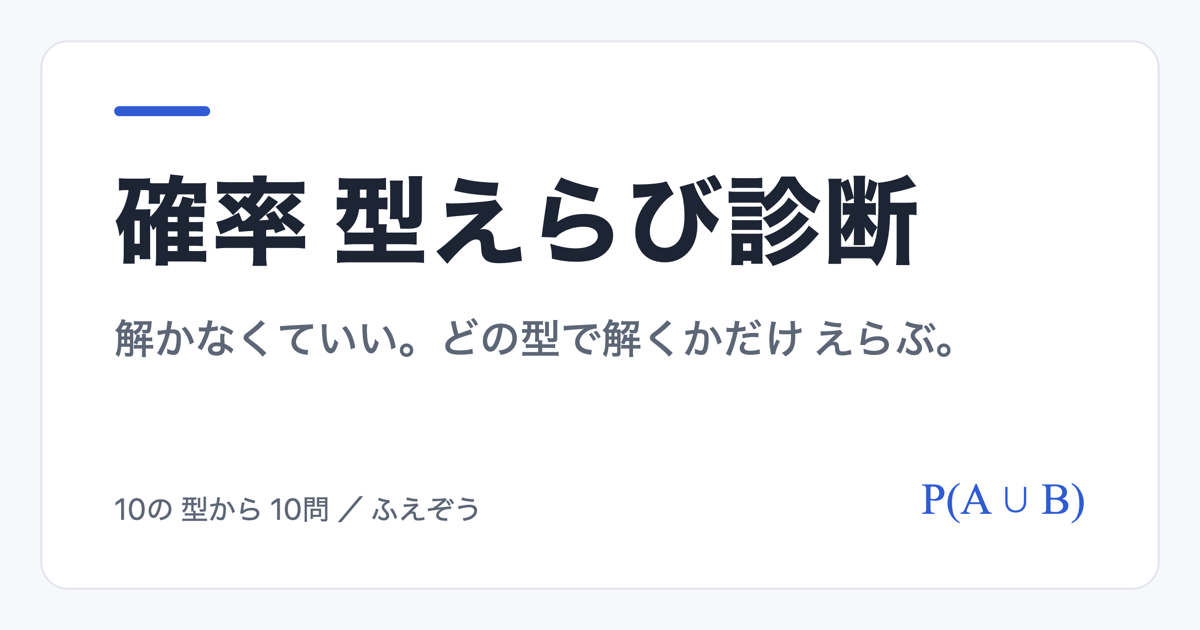
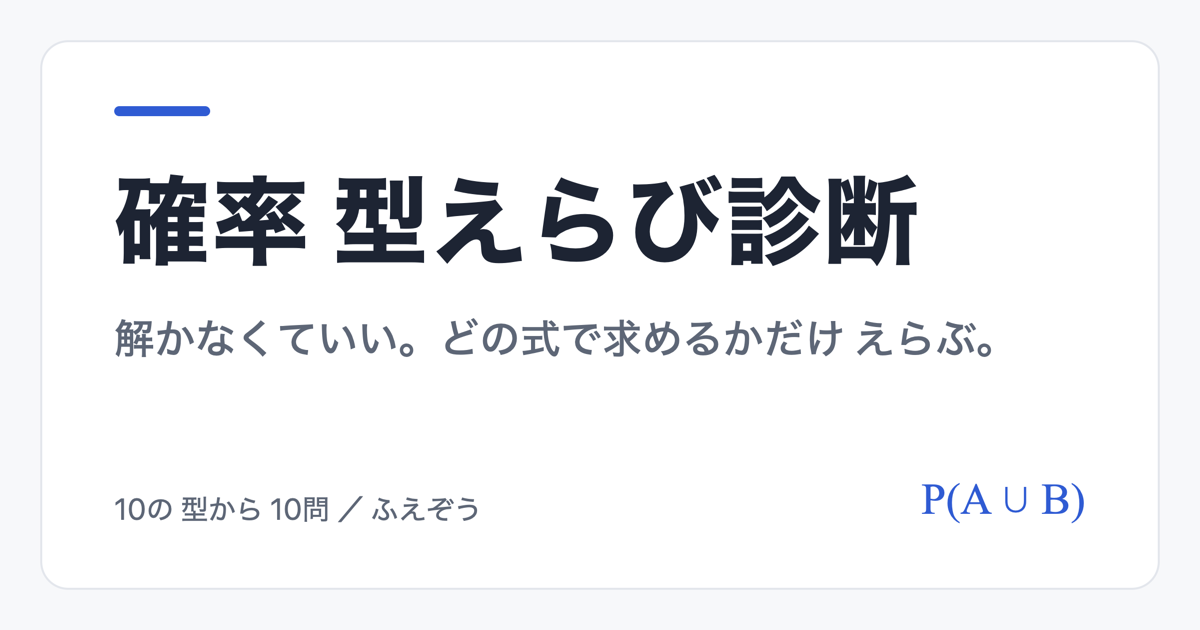
選択肢を型の名前から式に（型は答えたあとに出す）・期待値は平均とのちがいを説明し、データと期待値をくらべる問題を追加

Changed region(s): [[0.4933, 0.5127, 0.8325, 0.573], [0.4317, 0.5127, 0.4625, 0.573]]

diff --git a/index.html b/index.html
@@ -6,10 +6,10 @@
 <meta name="viewport" content="width=device-width, initial-scale=1">
 <meta http-equiv="Content-Security-Policy" content="default-src 'none'; style-src 'unsafe-inline'; script-src 'unsafe-inline'; img-src data:">
 <title>確率 型えらび診断</title>
-<meta name="description" content="解かなくていい。どの型で解くかだけ えらぶ。確率の「どの解き方を使うか」を10問で診断します。">
+<meta name="description" content="解かなくていい。どの式で求めるかだけ えらぶ。確率の「どの解き方を使うか」を10問で診断します。">
 <!-- X などに リンクを 貼った ときの カード -->
 <meta property="og:title" content="確率 型えらび診断">
-<meta property="og:description" content="解かなくていい。どの型で解くかだけ えらぶ。10問で診断します。">
+<meta property="og:description" content="解かなくていい。どの式で求めるかだけ えらぶ。10問で診断します。">
 <meta property="og:image" content="https://fuezou.github.io/kakuritsu-shindan/ogp.png">
 <meta property="og:url" content="https://fuezou.github.io/kakuritsu-shindan/">
 <meta property="og:type" content="website">
@@ -39,7 +39,13 @@ h1 { font-size: 26px; line-height: 1.35; margin: 28px 0 6px; letter-spacing: 0.0
 .q { font-weight: bold; margin: 4px 0 10px; }
 .opts { display: grid; gap: 10px; }
 .opt { font: inherit; font-size: 16px; text-align: left; padding: 12px 14px; border-radius: 10px; border: 1.5px solid var(--line); background: var(--card); color: var(--ink); cursor: pointer; }
-.opt small { color: var(--sub); }
+.opt { font-family: 'Times New Roman', 'Hiragino Mincho ProN', serif; font-size: 19px; }
+sup { font-size: 0.68em; line-height: 0; }
+.frac { display: inline-flex; flex-direction: column; vertical-align: middle; text-align: center; margin: 0 2px; }
+.frac > span:first-child { border-bottom: 1px solid currentColor; padding: 0 3px; }
+.frac > span:last-child { padding: 0 3px; }
+.frac .frac { font-size: 0.85em; }
+.big { font-size: 2em; line-height: 1; vertical-align: middle; font-weight: 200; }
 .opt:disabled { cursor: default; }
 .opt.ok { border-color: var(--ok); background: var(--ok-bg); }
 .opt.ng { border-color: var(--ng); background: var(--ng-bg); }
@@ -66,14 +72,15 @@ h1 { font-size: 26px; line-height: 1.35; margin: 28px 0 6px; letter-spacing: 0.0
 <main>
   <section id="titleScreen">
     <h1>確率<br>型えらび診断</h1>
-    <p class="lead">解かなくていい。<br>どの 型で 解くか だけ えらぶ。</p>
+    <p class="lead">解かなくていい。<br>どの 式で 求めるか だけ えらぶ。</p>
     <div class="card how">
       <b>あそびかた</b>
       <ol>
         <li>確率の 問題が 1つ 出ます。</li>
-        <li>計算は しないで、「どの 型で 解くか」を 4つから えらびます。</li>
+        <li>計算は しないで、正しい 式を 4つから えらびます。</li>
         <li>10問 終わると、まよいやすい 型が わかります。</li>
       </ol>
+      <p style="margin:8px 0 0">出る 型（ドリルと おなじ 10の 型）</p>
       <ul class="types" id="typeList"></ul>
     </div>
     <button class="btn start" id="startBtn">はじめる（10問）</button>
@@ -84,7 +91,7 @@ h1 { font-size: 26px; line-height: 1.35; margin: 28px 0 6px; letter-spacing: 0.0
     <div class="bar"><span>確率 型えらび診断</span><span id="count"></span></div>
     <div class="prog"><i id="progBar"></i></div>
     <div class="card prob" id="prob"></div>
-    <p class="q">どの 型で 解く？</p>
+    <p class="q">どの 式で 求める？</p>
     <div class="opts" id="opts"></div>
     <div class="card why" id="why" hidden></div>
     <button class="btn" id="nextBtn" hidden>次へ</button>
@@ -96,7 +103,7 @@ h1 { font-size: 26px; line-height: 1.35; margin: 28px 0 6px; letter-spacing: 0.0
       <div class="big" id="resScore"></div>
       <div id="resMsg"></div>
     </div>
-    <div class="card" id="missCard"><b>まよった ところ</b><ul class="misses" id="missList"></ul></div>
+    <div class="card" id="missCard"><b>まちがえた 問題の 型</b><ul class="misses" id="missList"></ul></div>
     <div class="card cta" id="cta"></div>
     <a class="btn x" id="shareBtn" target="_blank" rel="noopener">結果を X に 投稿する</a>
     <button class="btn sub" id="againBtn">もう一度（ちがう 問題）</button>
@@ -106,7 +113,8 @@ h1 { font-size: 26px; line-height: 1.35; margin: 28px 0 6px; letter-spacing: 0.0
 </main>
 
 <script id="core">
-// しくみ：型・問題・選択肢・判定・まとめ。型の 名前は 確率ドリル（75問）と おなじ 10の 型
+// しくみ：型・問題・式の 選択肢・まとめ。型の 名前は 確率ドリル（75問）と おなじ 10の 型
+// 選択肢は その 問題の 数を 入れた 式（\frac{a}{b}・^{k}・₉C₂ の 書き方）。先頭が 正しい 式、のこり 3つは 計算すると ちがう 値に なる 式
 const KakuritsuCore = (() => {
   const TYPES = {
     1: { name: '区別して数える', term: '' },
@@ -121,73 +129,84 @@ const KakuritsuCore = (() => {
     10: { name: '平均と同じ式', term: '期待値' },   // 「平均」だけで 金額を そのまま 平均する かんちがいを ふせぐ
   };
   const label = t => '型' + t + ' ' + TYPES[t].name;
-  // はずれ：まちがえやすい 型。遠回りでも 通る 型は 入れない（数えれば 解ける 問題に「区別して数える」など）
-  const CONFUSE = { 1: [2, 6, 5], 2: [3, 4, 5], 3: [2, 5, 6], 4: [3, 5, 2], 5: [8, 3, 7], 6: [5, 4, 8], 7: [8, 9, 2], 8: [5, 6, 4], 9: [7, 8, 5], 10: [3, 1, 6] };
-  // 遠回り だけど 解ける：× の まま、ひとこと 添える
-  const NOTE = {
-    '4>3': '場合に 分けて 足しても 解けるけど、場合が 多い。「少なくとも」は 反対から が 早い',
-    '4>2': '重なりを 引いても 解けるけど、反対（〜で ない）から 数える ほうが 早い',
-    '3>2': '重なりが ない（同時に 起きない）ので 引く ものが ない。そのまま 足す',
-    '9>7': '条件付き確率 では あるけど、分かった順と 時間の順が 逆。「原因の確率」の 型で 分子・分母を 作る',
-  };
-  const noteFor = (t, c) => NOTE[t + '>' + c] || '';
-  // 問題（各 型 2問）。why：型を 決めた ひとこと
+  const f = (a, b) => '\\frac{' + a + '}{' + b + '}';
+  const KITAI = '期待値は（金額）×（確率）の 和。度数分布の 平均（値 × 割合 の 和）と 同じ 形の 式で、まだ 起きて いないので 割合の かわりに 確率を 使う。';
   const POOL = {
     1: [
-      { text: '同じ硬貨2枚を同時に投げるとき、表と裏が1枚ずつ出る確率。', why: '見た目が 同じでも 2枚を 区別する。出方は 4通りで どれも 同じくらい 起こりやすい。 （表, 裏）と （裏, 表）の 2通り。 「表表・表裏・裏裏 の 3通り」では ない' },
-      { text: '同じ大きさのサイコロ2個を同時に投げるとき、1の目と2の目が1つずつ出る確率。', why: '見た目が 同じでも 2個を 区別する。出方は 36通りで どれも 同じくらい 起こりやすい。 （1, 2）と （2, 1）の 2通り' },
+      { text: '同じ硬貨2枚を同時に投げるとき、表と裏が1枚ずつ出る確率。', opts: [f(2, 4), f(1, 3), f(1, 2) + ' × ' + f(1, 2), '1 − ' + f(1, 2) + ' × ' + f(1, 2)],
+        why: '見た目が 同じでも 2枚を 区別する。出方は 4通りで どれも 同じくらい 起こりやすい。 （表, 裏）と （裏, 表）の 2通り。 「表表・表裏・裏裏 の 3通り」では ない' },
+      { text: '同じ大きさのサイコロ2個を同時に投げるとき、1の目と2の目が1つずつ出る確率。', opts: [f(2, 36), f(1, 36), f(1, 21), f(1, 6) + ' ＋ ' + f(1, 6)],
+        why: '見た目が 同じでも 2個を 区別する。出方は 36通りで どれも 同じくらい 起こりやすい。 （1, 2）と （2, 1）の 2通り' },
     ],
     2: [
-      { text: '1から60までの番号の札が1枚ずつある。1枚引くとき、番号が3の倍数または5の倍数である確率。', why: '「3の倍数」と「5の倍数」は 15の倍数で 重なる。足して、重なりを 引く' },
-      { text: 'ジョーカーを除くトランプ52枚から1枚引くとき、ハートまたは絵札（J・Q・K）である確率。', why: 'ハートの 絵札は 両方に 入って いる。足して、重なりを 引く' },
+      { text: '1から60までの番号の札が1枚ずつある。1枚引くとき、番号が3の倍数または5の倍数である確率。', opts: [f(20, 60) + ' ＋ ' + f(12, 60) + ' − ' + f(4, 60), f(20, 60) + ' ＋ ' + f(12, 60), f(20, 60) + ' × ' + f(12, 60), f(4, 60)],
+        why: '3の倍数（20枚）と 5の倍数（12枚）は、15の倍数（4枚）で 重なる。足して、重なりを 引く' },
+      { text: 'ジョーカーを除くトランプ52枚から1枚引くとき、ハートまたは絵札（J・Q・K）である確率。', opts: [f(13, 52) + ' ＋ ' + f(12, 52) + ' − ' + f(3, 52), f(13, 52) + ' ＋ ' + f(12, 52), f(13, 52) + ' × ' + f(12, 52), f(3, 52)],
+        why: 'ハート（13枚）と 絵札（12枚）は、ハートの 絵札（3枚）で 重なる。足して、重なりを 引く' },
     ],
     3: [
-      { text: '赤玉2個、白玉3個、青玉4個が入った袋から2個を同時に取り出すとき、2個が同じ色である確率。', why: '「2個とも赤」「2個とも白」「2個とも青」は 同時に 起きない。それぞれ 出して 足す' },
-      { text: '大小2個のサイコロを同時に投げるとき、目の和が4の倍数になる確率。', why: '和が 4・8・12 は 同時に 起きない。それぞれ 出して 足す' },
+      { text: '赤玉2個、白玉3個、青玉4個が入った袋から2個を同時に取り出すとき、2個が同じ色である確率。', opts: [f('₂C₂', '₉C₂') + ' ＋ ' + f('₃C₂', '₉C₂') + ' ＋ ' + f('₄C₂', '₉C₂'), f('₂C₂', '₉C₂') + ' × ' + f('₃C₂', '₉C₂') + ' × ' + f('₄C₂', '₉C₂'), '(' + f(2, 9) + ')^{2} ＋ (' + f(3, 9) + ')^{2} ＋ (' + f(4, 9) + ')^{2}', f(1, 3)],
+        why: '「2個とも 赤」「2個とも 白」「2個とも 青」は 同時に 起きない。それぞれの 確率を 足す' },
+      { text: '大小2個のサイコロを同時に投げるとき、目の和が4の倍数になる確率。', opts: [f(3, 36) + ' ＋ ' + f(5, 36) + ' ＋ ' + f(1, 36), f(3, 36) + ' × ' + f(5, 36) + ' × ' + f(1, 36), f(3, 36), f(3, 11)],
+        why: '和が 4（3通り）・8（5通り）・12（1通り）は 同時に 起きない。足す' },
     ],
     4: [
-      { text: 'サイコロを4回投げるとき、少なくとも1回は6の目が出る確率。', why: '「少なくとも1回」は 場合が 多い。反対の「1回も 出ない」を 出して 1 から 引く' },
-      { text: '大小2個のサイコロを同時に投げるとき、目の積が3の倍数になる確率。', why: '反対の「どちらも 3の倍数 では ない」の ほうが 数えやすい。1 から 引く' },
+      { text: 'サイコロを4回投げるとき、少なくとも1回は6の目が出る確率。', opts: ['1 − (' + f(5, 6) + ')^{4}', f(1, 6) + ' × 4', '(' + f(1, 6) + ')^{4}', '1 − (' + f(1, 6) + ')^{4}'],
+        why: '「少なくとも 1回」の 反対は「4回とも 6 以外」。それを 出して 1 から 引く' },
+      { text: '3個のサイコロを同時に投げるとき、目の積が偶数になる確率。', opts: ['1 − (' + f(1, 2) + ')^{3}', '(' + f(1, 2) + ')^{3}', f(1, 2), '3 × (' + f(1, 2) + ')^{3}'],
+        why: '積が 偶数 ＝ 少なくとも 1個は 偶数。反対の「3個とも 奇数」を 出して 1 から 引く' },
     ],
     5: [
-      { text: '硬貨1枚とサイコロ1個を同時に投げるとき、硬貨は裏、サイコロは5以上の目が出る確率。', why: '硬貨と サイコロは おたがいに 影響しない。それぞれの 確率を 掛ける' },
-      { text: '当たりが2本入った10本のくじから1本引き、もとに戻してから、もう1本引くとき、2回とも当たる確率。', why: '戻すので 1回目の 結果は 2回目に 影響しない。続けて 掛ける' },
+      { text: '硬貨1枚とサイコロ1個を同時に投げるとき、硬貨は裏、サイコロは5以上の目が出る確率。', opts: [f(1, 2) + ' × ' + f(2, 6), f(1, 2) + ' ＋ ' + f(2, 6), f(1, 12), f(2, 6)],
+        why: '硬貨と サイコロは おたがいに 影響しない。それぞれの 確率を 掛ける' },
+      { text: '当たりが2本入った10本のくじから1本引き、もとに戻してから、もう1本引くとき、2回とも当たる確率。', opts: [f(2, 10) + ' × ' + f(2, 10), f(2, 10) + ' × ' + f(1, 9), f(2, 10) + ' ＋ ' + f(2, 10), f('₂C₂', '₁₀C₂')],
+        why: '戻すので 2回目も 10本の 中から。1回目の 結果は 2回目に 影響しない。続けて 掛ける' },
     ],
     6: [
-      { text: 'サイコロを4回投げるとき、3の目がちょうど2回出る確率。', why: '同じ ことを 4回 くり返し、そのうち「何回目に」出るかを 選ぶ（C を 使う）' },
-      { text: '硬貨を5回投げるとき、表がちょうど3回出る確率。', why: '同じ ことを 5回 くり返し、表が 出る 3回を 選ぶ（C を 使う）' },
+      { text: 'サイコロを4回投げるとき、3の目がちょうど2回出る確率。', opts: ['₄C₂ (' + f(1, 6) + ')^{2} (' + f(5, 6) + ')^{2}', '(' + f(1, 6) + ')^{2} (' + f(5, 6) + ')^{2}', '(' + f(1, 6) + ')^{2}', '₄C₂ (' + f(1, 6) + ')^{2}'],
+        why: '4回の うち 3の目が 出る 2回を 選ぶ（₄C₂ 通り）。C を わすれない' },
+      { text: '硬貨を5回投げるとき、表がちょうど3回出る確率。', opts: ['₅C₃ (' + f(1, 2) + ')^{3} (' + f(1, 2) + ')^{2}', '(' + f(1, 2) + ')^{3} (' + f(1, 2) + ')^{2}', '₅C₃ (' + f(1, 2) + ')^{3}', f(3, 5)],
+        why: '5回の うち 表が 出る 3回を 選ぶ（₅C₃ 通り）。C を わすれない' },
     ],
     7: [
-      { text: 'サイコロを1回投げたところ、偶数の目が出た。このとき、その目が4以上である確率。', why: '「偶数だった」は もう 分かって いる。分母を 偶数の 3通りに しぼる' },
-      { text: '大小2個のサイコロを同時に投げたところ、目の和が6だった。このとき、大のサイコロの目が2である確率。', why: '「和が6だった」は もう 分かって いる。分母を 和が6の 5通りに しぼる' },
+      { text: 'サイコロを1回投げたところ、偶数の目が出た。このとき、その目が4以上である確率。', opts: [f(2, 3), f(2, 6), f(3, 6), f(1, 2) + ' × ' + f(3, 6)],
+        why: '「偶数だった」は もう 分かって いる。分母を 偶数の 3通り（2, 4, 6）に しぼる' },
+      { text: '大小2個のサイコロを同時に投げたところ、目の和が6だった。このとき、大のサイコロの目が2である確率。', opts: [f(1, 5), f(1, 36), f(1, 6), f(5, 36) + ' × ' + f(1, 6)],
+        why: '「和が6だった」は もう 分かって いる。分母を 和が6の 5通りに しぼる' },
     ],
     8: [
-      { text: '赤玉3個、白玉2個が入った袋から、1個ずつ2回、取り出した玉を戻さずに取り出すとき、1個目が赤玉、2個目が白玉である確率。', why: '戻さないので 2回目は 1回目で 変わる。1回目の あとの 袋で 2回目を 考えて 掛ける' },
-      { text: '当たりが3本入った10本のくじを、Aが1本引き、戻さずに続けてBが1本引くとき、2人ともはずれる確率。', why: '戻さないので Bの ときは 9本の 中から。Aの あとの くじで Bを 考えて 掛ける' },
+      { text: '赤玉3個、白玉2個が入った袋から、1個ずつ2回、取り出した玉を戻さずに取り出すとき、1個目が赤玉、2個目が白玉である確率。', opts: [f(3, 5) + ' × ' + f(2, 4), f(3, 5) + ' × ' + f(2, 5), f(3, 5) + ' ＋ ' + f(2, 4), f('₃C₁ × ₂C₁', '₅C₂')],
+        why: '戻さないので 2回目は 4個の 中から（白は 2個）。分母も 分子も 1つずつ 減る' },
+      { text: '当たりが3本入った10本のくじを、Aが1本引き、戻さずに続けてBが1本引くとき、2人ともはずれる確率。', opts: [f(7, 10) + ' × ' + f(6, 9), f(7, 10) + ' × ' + f(7, 10), '1 − ' + f(3, 10) + ' × ' + f(2, 9), f(7, 10) + ' ＋ ' + f(6, 9)],
+        why: '戻さないので Bの ときは 9本の 中から（はずれは 6本）。分母も 分子も 1つずつ 減る' },
     ],
     9: [
-      { text: '袋Aには赤玉2個と白玉3個、袋Bには赤玉4個と白玉1個が入っている。硬貨を投げて表なら袋A、裏なら袋Bを選び、玉を1個取り出したところ赤玉だった。それが袋Aから取り出された確率。', why: '時間の 順は「袋を 選ぶ → 玉」なのに、分かったのは「玉（赤）」が 先。原因（どちらの 袋か）を 聞いて いる' },
-      { text: 'ある製品の70%を機械X、30%を機械Yが作っている。不良品の割合は、Xが2%、Yが5%である。製品を1個選んだところ不良品だった。それが機械Yで作られた確率。', why: '時間の 順は「機械で 作る → 不良品」なのに、分かったのは「不良品」が 先。原因（どの 機械か）を 聞いて いる' },
+      { text: '袋Aには赤玉2個と白玉3個、袋Bには赤玉4個と白玉1個が入っている。硬貨を投げて表なら袋A、裏なら袋Bを選び、玉を1個取り出したところ赤玉だった。それが袋Aから取り出された確率。', opts: [f(f(1, 2) + ' × ' + f(2, 5), f(1, 2) + ' × ' + f(2, 5) + ' ＋ ' + f(1, 2) + ' × ' + f(4, 5)), f(1, 2) + ' × ' + f(2, 5), f(2, 5), f(1, 2)],
+        why: '時間の 順は「袋を 選ぶ → 玉」、分かったのは「赤」が 先。赤が 出る 確率 全体を 分母に、袋Aで 赤の 確率を 分子に する' },
+      { text: 'ある製品の70%を機械X、30%を機械Yが作っている。不良品の割合は、Xが2%、Yが5%である。製品を1個選んだところ不良品だった。それが機械Yで作られた確率。', opts: [f('0.3 × 0.05', '0.7 × 0.02 ＋ 0.3 × 0.05'), '0.3 × 0.05', '0.05', '0.3'],
+        why: '時間の 順は「機械で 作る → 不良品」、分かったのは「不良品」が 先。不良品の 確率 全体を 分母に、Yで 不良品の 確率を 分子に する' },
     ],
     10: [
-      { text: 'サイコロを1回投げて、1の目なら600円、2か3の目なら300円、それ以外なら0円もらえる。もらえる金額の期待値。', why: '（金額）×（その 確率）を 足す。平均と 同じ 式' },
-      { text: '硬貨を3枚同時に投げ、表が出た枚数×100円をもらえる。もらえる金額の期待値。', why: '（金額）×（その 確率）を 足す。平均と 同じ 式' },
+      { text: 'サイコロを1回投げて、1の目なら600円、2か3の目なら300円、それ以外なら0円もらえる。もらえる金額の期待値。', opts: ['600 × ' + f(1, 6) + ' ＋ 300 × ' + f(2, 6) + ' ＋ 0 × ' + f(3, 6), '(600 ＋ 300 ＋ 0) ÷ 3', '600 × ' + f(1, 6) + ' ＋ 300 × ' + f(1, 6), '(600 ＋ 300) ÷ 2'],
+        why: KITAI + '金額を そのまま ÷3 は しない' },
+      { text: 'かたよりのないサイコロを60回投げたら、1の目が12回、2か3の目が18回出た。1の目なら600円、2か3の目なら300円、それ以外なら0円もらえるとき、次に1回投げてもらえる金額の期待値。', opts: ['600 × ' + f(1, 6) + ' ＋ 300 × ' + f(2, 6) + ' ＋ 0 × ' + f(3, 6), '600 × ' + f(12, 60) + ' ＋ 300 × ' + f(18, 60) + ' ＋ 0 × ' + f(30, 60), '(600 ＋ 300 ＋ 0) ÷ 3', '600 × ' + f(1, 6) + ' ＋ 300 × ' + f(1, 6)],
+        why: KITAI + '「次に 1回」は まだ 起きて いない ので、60回の 結果の 割合（12/60 など）では なく 確率を 使う。結果の 割合で 出すのは「これまでの 平均」' },
     ],
   };
   function mulberry32(a) { return () => { a |= 0; a = a + 0x6D2B79F5 | 0; let t = Math.imul(a ^ a >>> 15, 1 | a); t = t + Math.imul(t ^ t >>> 7, 61 | t) ^ t; return ((t ^ t >>> 14) >>> 0) / 4294967296; }; }
   const shuffle = (rng, xs) => { const a = xs.slice(); for (let i = a.length - 1; i > 0; i--) { const j = Math.floor(rng() * (i + 1)); [a[i], a[j]] = [a[j], a[i]]; } return a; };
   function build(t, k, rng) {
     const p = POOL[t][k];
-    return { type: t, k, text: p.text, why: p.why, options: shuffle(rng, [t].concat(CONFUSE[t])).map(c => ({ type: c, correct: c === t })) };
+    return { type: t, k, text: p.text, why: p.why, options: shuffle(rng, p.opts.map((x, i) => ({ expr: x, correct: i === 0 }))) };
   }
   // 10の 型から 1問ずつ（2問の どちらか）、順番は まぜる
   function makeQuiz(rng) { return shuffle(rng, Object.keys(TYPES).map(Number).map(t => build(t, Math.floor(rng() * POOL[t].length), rng))); }
+  // picks：えらんだ 選択肢が 正しかったか（true / false）
   function summarize(qs, picks) {
-    const misses = [];
-    qs.forEach((q, i) => { if (picks[i] !== q.type) misses.push({ type: q.type, chosen: picks[i] }); });
+    const misses = qs.filter((q, i) => !picks[i]).map(q => ({ type: q.type, k: q.k }));
     return { score: qs.length - misses.length, total: qs.length, misses };
   }
-  return { TYPES, label, CONFUSE, NOTE, noteFor, POOL, build, makeQuiz, summarize, mulberry32 };
+  return { TYPES, label, POOL, build, makeQuiz, summarize, mulberry32 };
 })();
 </script>
 
@@ -211,7 +230,16 @@ const ARTICLE = {
   10: ['n290c14af63dd', '期待値って、平均と何が違うんですか'],
 };
 const $ = id => document.getElementById(id);
-const optHTML = t => C.label(t) + (C.TYPES[t].term ? ' <small>（' + C.TYPES[t].term + '）</small>' : '');
+const esc = t => t.replace(/&/g, '&amp;').replace(/</g, '&lt;').replace(/>/g, '&gt;');
+// 「\frac{a}{b}」「^{k}」を HTML に（分数の 中の 分数も）
+function tex(t) {
+  let h = esc(t);
+  for (let i = 0; i < 3 && h.includes('\\frac{'); i++) h = h.replace(/\\frac\{([^{}]*(?:\{[^{}]*\}[^{}]*)*)\}\{([^{}]*(?:\{[^{}]*\}[^{}]*)*)\}/g, '<span class="frac"><span>$1</span><span>$2</span></span>');
+  // 分数を 包む かっこは 分数の 高さに 合わせて 大きく
+  h = h.replace(/\((<span class="frac"><span>[^<]*<\/span><span>[^<]*<\/span><\/span>)\)/g, '<span class="big">(</span>$1<span class="big">)</span>');
+  return h.replace(/\^\{([^}]*)\}/g, '<sup>$1</sup>');
+}
+const typeHTML = t => C.label(t) + (C.TYPES[t].term ? '（' + C.TYPES[t].term + '）' : '');
 const state = { qs: [], i: 0, picks: [], answered: false };
 const rng = C.mulberry32((Date.now() ^ Math.floor(Math.random() * 1e9)) >>> 0);
 
@@ -230,7 +258,7 @@ function render() {
   $('opts').innerHTML = '';
   q.options.forEach((o, k) => {
     const b = document.createElement('button');
-    b.className = 'opt'; b.innerHTML = optHTML(o.type);
+    b.className = 'opt'; b.innerHTML = tex(o.expr);
     b.addEventListener('click', () => answer(k));
     $('opts').appendChild(b);
   });
@@ -240,16 +268,16 @@ function answer(k) {
   if (state.answered) return;
   state.answered = true;
   const q = state.qs[state.i], o = q.options[k];
-  state.picks.push(o.type);
+  state.picks.push(o.correct);
   [...$('opts').children].forEach((b, j) => {
     b.disabled = true;
     if (q.options[j].correct) b.classList.add('ok');
     else if (j === k) b.classList.add('ng');
   });
-  const why = $('why'), note = o.correct ? '' : C.noteFor(q.type, o.type);
+  const why = $('why');
   why.className = 'card why' + (o.correct ? '' : ' ng');
-  why.innerHTML = '<p class="head">' + (o.correct ? '○ 正解' : '× ざんねん。正解は「' + C.label(q.type) + '」') + '</p>' +
-    (note ? '<p>※ ' + note + '</p>' : '') + '<p>' + q.why.replace(/, /g, ',\u00a0') + '</p>';   // （1, 2）は かっこの 途中で 改行しない
+  why.innerHTML = '<p class="head">' + (o.correct ? '○ 正解' : '× ざんねん。正しい 式は 緑の もの') + '</p>' +
+    '<p>この 問題は「' + typeHTML(q.type) + '」</p><p>' + q.why.replace(/, /g, ', ') + '</p>';   // （1, 2）は かっこの 途中で 改行しない
   why.hidden = false;
   $('nextBtn').textContent = state.i + 1 < state.qs.length ? '次へ' : '結果を 見る';
   $('nextBtn').hidden = false;
@@ -264,7 +292,7 @@ function result() {
   $('resScore').innerHTML = r.score + '<small> / ' + r.total + '</small>';
   $('resMsg').textContent = r.score === r.total ? '全問 正解！ 型の 見分けは ばっちり。' : r.score >= 7 ? 'あと 少し。まよった 型を たしかめよう。' : '見分けの 練習が 効く ところです。';
   $('missCard').hidden = !r.misses.length;
-  $('missList').innerHTML = r.misses.map(x => '<li>「' + C.label(x.type) + '」の 問題で、「' + C.label(x.chosen) + '」を えらんだ</li>').join('');
+  $('missList').innerHTML = r.misses.map(x => '<li>' + typeHTML(x.type) + '</li>').join('');
   $('cta').innerHTML = ctaHTML(r);
   const text = '確率 型えらび診断 ' + r.score + '/' + r.total + ' でした';
   $('shareBtn').href = 'https://twitter.com/intent/tweet?text=' + encodeURIComponent(text) + '&url=' + encodeURIComponent(URLS.app) + '&hashtags=' + encodeURIComponent('確率,高校数学');
